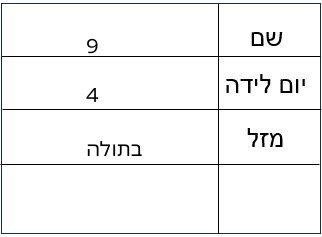
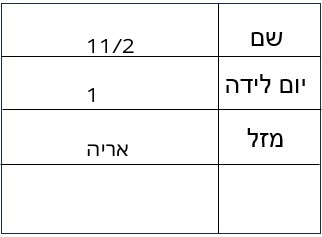
fix map and calculate pick,cycle and period

Changed region(s): [[0.2484, 0.1477, 0.4348, 0.2363], [0.3106, 0.5907, 0.4348, 0.6793], [0.2484, 0.3544, 0.3106, 0.443]]

diff --git a/templates/result.html b/templates/result.html
@@ -73,12 +73,12 @@
     <div class="result-container">
         <h1>המפה הנומרולוגית</h1>
         <div style="margin-bottom: 24px;">
-            {% if image %}
+            
                 <div style="background: #f3f6fa; border-radius: 16px; box-shadow: 0 2px 12px #0001; padding: 18px; display: inline-block; border: 2px solid #e0e0e0;">
-                    <img class="result-img" src="/{{ image }}" alt="מפה נומרולוגית" style="margin-bottom: 0;">
+                    <img class="result-img" src="/static/result.jpg" alt="מפה נומרולוגית" style="margin-bottom: 0;">
                     <div style="font-size: 1.1em; color: #444; margin-top: 8px;">המפה האישית שלך</div>
                 </div>
-            {% endif %}
+            
         </div>
         <div style="margin-bottom: 24px;">
             <h2 style="font-size: 1.2em; color: #6a82fb; margin-bottom: 10px;">טבלת תוצאה</h2>
